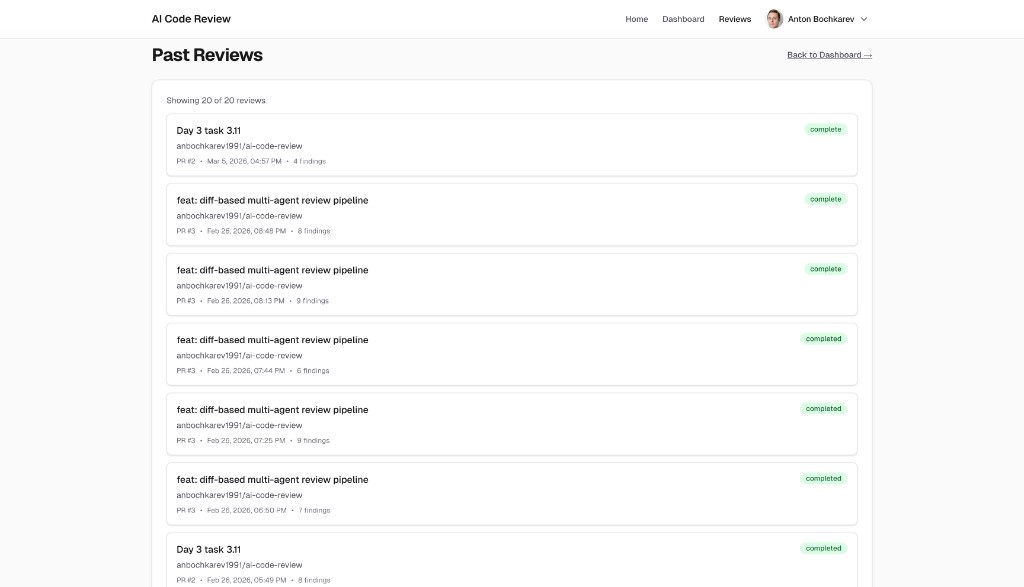
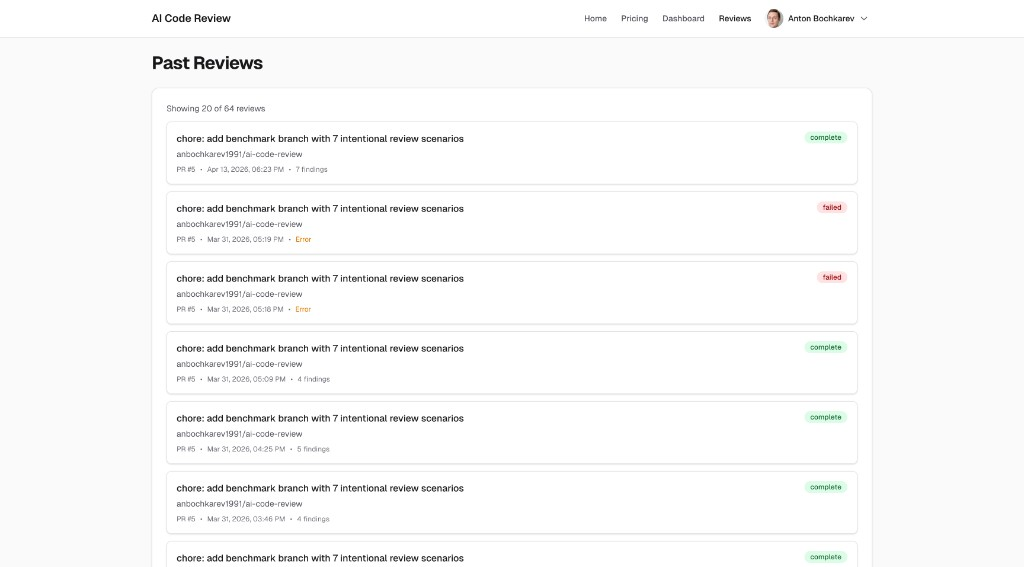
docs: update README with current screenshots and pipeline changes
Replace outdated review screenshots, add new capabilities (context
expansion, LLM deduplication, security severity overrides, issue
generation), fix merge rule description, update pipeline and
architecture diagrams, and refresh limitations section.

Made-with: Cursor

diff --git a/README.md b/README.md
@@ -12,7 +12,7 @@ An AI-powered code review tool that analyzes GitHub pull requests across four do
 
 AI Code Review Assistant is a full-stack application that connects to your GitHub repositories, fetches pull request diffs, and runs them through a multi-agent analysis pipeline. Each agent specializes in a different review domain. Findings are normalized, deduplicated, scored for risk, and presented as a structured review with a clear merge recommendation.
 
-The system is designed to work with **diffs only** — it analyzes changed code rather than entire files, keeping reviews focused and reducing noise.
+The system is designed to work **diff-first** — it prioritizes changed code while pulling in limited local context (enclosing functions, referenced declarations) to improve finding accuracy without sending entire files.
 
 ---
 
@@ -35,16 +35,20 @@ It is not a replacement for human review. It is a fast, systematic first pass th
 
 - **Diff-scoped analysis** — only changed code is analyzed; unchanged files are excluded.
 - **Four specialized agents** — Code Quality, Architecture, Performance, and Security run in parallel with independent timeout and retry logic.
+- **Git-backed context expansion** — agents receive not just diff hunks but enclosing functions and referenced declarations fetched from GitHub, improving finding accuracy without sending entire files.
 - **Deterministic risk scoring** — exponential risk model (0–100) based on severity-weighted findings.
-- **Merge recommendation** — structured decision (Safe to merge / Merge with caution / Merge blocked) derived from risk score and critical findings.
-- **Finding normalization** — confidence clamping, multi-agent consensus detection, false positive risk estimation, and severity coherence checks.
-- **AI Review Summary** — concise executive overview of main risks, themes, and recommendation, generated from final findings.
+- **Centralized merge decision** — a single pure function in the shared package determines the merge verdict from severity counts and risk score. Any critical or high finding blocks merge; risk score >= 60 or any medium findings triggers caution.
+- **Multi-layer finding normalization** — confidence clamping, diff boundary enforcement, cross-agent consolidation, severity calibration (impact/likelihood matrix, multi-agent boosts, overflow controls), and false positive risk estimation.
+- **LLM cross-file deduplication** — when 4+ findings exist, an LLM grouping step merges findings that share a root cause, consolidating agent metadata and consensus.
+- **Security severity overrides** — security findings receive policy-driven post-processing (e.g. open redirect in auth callback is escalated to critical) with confidence floors and downgrade guards.
+- **AI Review Summary** — concise executive overview with overall assessment, primary risk area, key concerns grouped by severity, and an AI-generated narrative recommendation.
 - **Systemic issue detection** — recurring patterns across findings are surfaced separately from code-level issues.
-- **Review telemetry** — per-agent latency, token counts, prompt sizes, and status tracked in every review.
+- **LLM-powered issue generation** — each finding has a "Generate issue" action that produces a structured issue draft (title, description, steps to reproduce, acceptance criteria) via a one-shot LLM call.
+- **Review telemetry** — per-agent latency, token counts, prompt sizes, status, and confidence tracked in every review.
 - **Cost estimation** — USD cost computed from token usage and model rates.
-- **Review integrity** — SHA-256 review hash and engine/agent version stamps for reproducibility.
+- **Review integrity** — SHA-256 review hash and engine/agent version stamps (v3.0.0) for reproducibility.
 - **Usage-based billing** — free tier (10 reviews/month) and Pro tier (200 reviews/month) via Stripe.
-- **Review history** — all past reviews are persisted and browsable.
+- **Review history** — all past reviews are persisted and browsable with completion and failure statuses.
 
 ---
 
@@ -68,28 +72,40 @@ Click **Run Code Review**. The backend fetches the PR diff from GitHub, parses i
 
 ### 3. Read the results
 
-The review result includes:
+The review result page has two main areas — a scrollable content column and a sticky **General Findings** sidebar.
 
-- **AI Review Summary** — overall assessment, key concerns (2–4 bullets), and a practical recommendation.
+**Content column:**
+
+- **AI Review Summary** — overall assessment, primary risk area (e.g. Security), key concerns grouped by severity (critical / high / medium), and an AI-generated narrative recommendation.
 - **PR metadata** — file count, additions/deletions, commit count, analysis scope.
+- **Systemic patterns** — recurring issues flagged separately with clickable details.
+- **Execution telemetry** — agent count, duration, average latency, tokens, estimated cost, engine version, and review hash.
+- **Individual findings** — each with severity badge, category, multi-agent confirmation indicator, affected locations, impact description, suggested fix, and diff context.
+
+**General Findings sidebar:**
+
+- **Merge recommendation** — actionable decision (Safe to merge / Merge with caution / Merge blocked) with a "Why blocked" or "Why cautioned" breakdown.
+- **Risk score** — 0 to 100 donut chart with risk level label (Low / Moderate / High / Critical).
+- **Risk by area** — weighted scores per domain (Security, Code quality, Performance, Architecture).
 - **Severity breakdown** — counts of critical, high, medium, and low findings.
-- **Risk score** — 0 to 100, with a risk level label (Low / Moderate / High / Critical).
-- **Merge recommendation** — actionable decision with explanation.
-- **Systemic patterns** — recurring issues flagged separately.
-- **Individual findings** — each with file, line, message, suggested fix, confidence, false positive risk, and diff context.
-- **Execution telemetry** — agent count, duration, tokens, estimated cost, engine version, and review hash.
+- **Multi-agent overlap** — count of findings independently confirmed by multiple agents.
+- **Summary** — condensed text overview of the review.
 
-![Review details](docs/screenshots/review-details.png)
+![Review details — AI summary and merge decision](docs/screenshots/review-details-summary.png)
 
-*A completed review showing risk score (80/100, High), merge blocked status, systemic pattern detection, and execution metadata. Below the summary, findings are listed with severity badges, file locations, and suggested fixes.*
+*AI Review Summary showing overall assessment, primary risk (Security), key concerns grouped by priority, and narrative recommendation. The sidebar shows the merge decision (Blocked from merge), risk score (70/100, Critical), and weighted risk breakdown by area.*
+
+![Review details — findings with multi-agent confirmation](docs/screenshots/review-details-findings.png)
+
+*Findings section with severity badges, multi-agent confirmed indicators, affected locations, impact descriptions, and suggested fixes. Systemic issues are surfaced above code-level findings. The sidebar remains visible with the merge decision and risk breakdown.*
 
 ### 4. Browse past reviews
 
-All reviews are persisted and accessible from the **Past Reviews** page, showing repo, PR number, timestamp, finding count, and status.
+All reviews are persisted and accessible from the **Reviews** page. Each entry shows PR title, repo, PR number, timestamp, finding count, and status (complete or failed).
 
 ![Past reviews](docs/screenshots/past-reviews.png)
 
-*Review history with completion status and finding counts. Each entry links to the full review detail.*
+*Review history showing completion and failure statuses. Failed reviews display an error label. Each entry links to the full review detail.*
 
 ---
 
@@ -104,6 +120,16 @@ Backend fetches PR diff via GitHub API
         ▼
 DiffParser filters and parses hunks
 (ignores lock files, binaries, node_modules, etc.)
+        │
+        ▼
+ContextBuilder
+(fetches full files from GitHub, extracts enclosing
+ functions and referenced declarations per hunk)
+        │
+        ▼
+AgentContextShaper
+(builds per-agent prompts with ~4,500-token budget;
+ security agent gets security-relevant context only)
         │
         ▼
 ┌───────────────────────────────────────────┐
@@ -123,9 +149,9 @@ FindingNormalizer
  consolidation, consensus detection, false positive risk)
         │
         ▼
-SeverityNormalizer
-(severity adjustments, multi-agent boosts,
- cap enforcement, root-cause merging)
+FindingDeduplicator
+(LLM groups findings sharing a root cause,
+ merges agent metadata and consensus)
         │
         ▼
 DeterministicAggregator
@@ -137,6 +163,11 @@ ResultFormatter
 (execution metadata, cost estimate, telemetry)
         │
         ▼
+SeverityNormalizer
+(impact/likelihood classification, multi-agent boosts,
+ security overrides, cap enforcement, overflow controls)
+        │
+        ▼
 AiSummaryGenerator
 (LLM synthesizes findings into executive summary)
         │
@@ -144,7 +175,7 @@ AiSummaryGenerator
 Persist to Supabase + return to frontend
 ```
 
-Each agent receives the parsed diff formatted as markdown with per-file sections. Agent output is validated against a shared Zod schema with up to 2 retries on malformed JSON. The orchestrator uses `Promise.allSettled` so a single agent failure never blocks the pipeline — partial results are still returned and clearly labeled.
+Each agent receives a diff-first prompt with limited local context (enclosing functions, referenced declarations) shaped per agent specialization. Agent output is validated against a shared Zod schema with up to 2 retries on malformed JSON. The orchestrator uses `Promise.allSettled` so a single agent failure never blocks the pipeline — partial results are still returned and clearly labeled.
 
 ---
 
@@ -154,9 +185,10 @@ Each agent receives the parsed diff formatted as markdown with per-file sections
 graph TB
     subgraph frontend [Frontend - Next.js]
         Landing[Landing Page]
+        Pricing[Pricing]
         Dashboard[Dashboard]
         ReviewUI[Review Results]
-        ReviewHistory[Past Reviews]
+        ReviewHistory[Reviews History]
     end
 
     subgraph backend [Backend - NestJS]
@@ -168,6 +200,8 @@ graph TB
             Controller[Reviews Controller]
             Service[Reviews Service]
             Orchestrator[Review Orchestrator]
+            CtxBuilder[Context Builder]
+            CtxShaper[Agent Context Shaper]
 
             subgraph agents [Agents]
                 CQ[Code Quality]
@@ -177,11 +211,13 @@ graph TB
             end
 
             Normalizer[Finding Normalizer]
-            SevNorm[Severity Normalizer]
+            Deduplicator[Finding Deduplicator]
             Aggregator[Deterministic Aggregator]
             RiskEng[Risk Engine]
             Formatter[Result Formatter]
-            AiSummary[AiSummaryGenerator]
+            SevNorm[Severity Normalizer]
+            AiSummary[AI Summary Generator]
+            IssueGen[Issue Generator]
         end
     end
 
@@ -197,15 +233,21 @@ graph TB
     Service --> GitHubMod
     GitHubMod --> GitHubAPI
     Service --> Orchestrator
-    Orchestrator --> agents
+    Orchestrator --> CtxBuilder
+    CtxBuilder --> GitHubAPI
+    CtxBuilder --> CtxShaper
+    CtxShaper --> agents
     agents --> OpenAI
     Orchestrator --> Normalizer
-    Normalizer --> SevNorm
-    SevNorm --> Aggregator
+    Normalizer --> Deduplicator
+    Deduplicator --> OpenAI
+    Deduplicator --> Aggregator
     Aggregator --> RiskEng
     Aggregator --> Formatter
-    Formatter --> AiSummary
+    Service --> SevNorm
+    SevNorm --> AiSummary
     AiSummary --> OpenAI
+    IssueGen --> OpenAI
     Controller --> BillingMod
     BillingMod --> Stripe
     AuthMod --> Supabase
@@ -216,7 +258,7 @@ graph TB
 
 - **Frontend** handles auth (Supabase SSR), navigation, and rendering. It has no business logic — it sends requests to the backend and displays results.
 - **Backend** owns the entire review pipeline, billing, and GitHub integration. Each NestJS module (Auth, GitHub, Billing, Reviews) is self-contained.
-- **Shared** package contains TypeScript types, Zod schemas, merge-decision logic, and model rate tables — used by both frontend and backend.
+- **Shared** package contains TypeScript types, Zod schemas, merge-decision logic, risk breakdown/summary helpers, and model rate tables — used by both frontend and backend.
 - **Agents** are isolated injectable services. Each receives parsed diff files and returns structured findings validated against a shared schema.
 - **Aggregation** is deterministic — no randomness in scoring, merge decisions, or normalization. Same diff + same agent outputs = same result.
 
@@ -224,21 +266,29 @@ graph TB
 
 ## Technical highlights
 
-- **Diff-only scope.** The `DiffParser` filters out non-code files (lock files, binaries, generated assets) and formats only changed hunks for agent consumption. This reduces token usage and keeps findings relevant.
+- **Diff-first with local context.** The `DiffParser` filters out non-code files (lock files, binaries, generated assets). The `ContextBuilder` then fetches full files from GitHub and extracts enclosing functions, referenced declarations, and called helpers per hunk. The `AgentContextShaper` builds per-agent prompts within a ~4,500-token budget, with the security agent receiving only security-relevant context.
 
 - **Resilient orchestration.** `Promise.allSettled` with per-agent timeouts (30s default) and single retry on transient errors. Non-retryable errors (401, 402, 429) fail fast. Partial results are surfaced rather than lost.
 
-- **Multi-layer normalization.** Findings pass through confidence clamping (0.3–0.95), diff boundary enforcement (outside-diff findings penalized), cross-agent consolidation, severity coherence, and uncertainty phrase detection before scoring.
+- **Multi-layer normalization.** Findings pass through confidence clamping (0.3–0.95), diff boundary enforcement (outside-diff findings penalized), cross-agent consolidation, severity coherence, and uncertainty phrase detection. A separate severity calibration pipeline applies an impact/likelihood matrix, multi-agent boosts, confidence caps, and overflow controls.
 
-- **Deterministic merge logic.** The merge decision is a pure function of severity counts and risk score — no LLM involved. Any critical finding blocks merge; 3+ high findings or risk score >= 60 triggers caution.
+- **LLM cross-file deduplication.** When 4+ findings exist, an LLM grouping call merges findings that share a root cause, consolidating agent metadata and multi-agent consensus. This reduces noise without losing signal.
 
-- **AI Review Summary.** After findings are aggregated and normalized, a single LLM call synthesizes them into a concise executive summary (overall assessment, key concerns, recommendation). Generation is non-blocking — if it fails, the pipeline completes and the block is omitted.
+- **Security severity overrides.** Security findings receive policy-driven post-processing. Open redirect patterns, unvalidated external URLs, and auth callback issues are escalated based on pattern matching, with confidence floors preventing false downgrades.
+
+- **Deterministic merge logic.** The merge decision is a single pure function in the shared package (`decideMerge`) — no LLM involved. Any critical or high finding blocks merge; risk score >= 60 or any medium findings triggers caution.
+
+- **AI Review Summary.** After findings are aggregated and normalized, a single LLM call synthesizes them into a concise executive summary (overall assessment, primary risk, key concerns grouped by severity, narrative recommendation). A factual severity prefix grounds the summary in actual finding counts. Generation is non-blocking — if it fails, the pipeline completes and the block is omitted.
+
+- **LLM issue generation.** Each finding can be converted into a structured issue draft (title, description, steps to reproduce, acceptance criteria) via a one-shot LLM call, replacing the previous placeholder action buttons.
 
 - **Zod-validated agent output.** Agent responses are parsed against a strict Zod schema with up to 2 retries, preventing malformed data from propagating through the pipeline.
 
 - **Cost transparency.** Token usage is tracked per agent and converted to USD estimates using per-model rate tables defined in the shared package.
 
-- **Review integrity.** Each review is stamped with a SHA-256 hash of the diff + engine/agent versions, enabling reproducibility verification.
+- **Review integrity.** Each review is stamped with a SHA-256 hash of the diff + engine/agent versions (v3.0.0), enabling reproducibility verification.
+
+- **Input validation and security hardening.** All external API responses (GitHub, Stripe, Supabase) are validated before nested access. Frontend validates Stripe checkout redirect URLs against an allowlist and sanitizes post-login redirect paths. Backend validates Stripe return URLs against `FRONTEND_URL`. See [docs/frontend-security.md](docs/frontend-security.md).
 
 ---
 
@@ -326,13 +376,15 @@ The frontend runs on `http://localhost:3000`, the backend on `http://localhost:3
 
 ### Database setup
 
-Run the Supabase migrations in order. The migration files are in `supabase/migrations/` and create the following tables: `profiles`, `github_connections`, `subscriptions`, `review_runs`, `usage`.
+Run the Supabase migrations in order. The migration files are in `supabase/migrations/` and create the following tables: `profiles`, `github_connections`, `subscriptions`, `review_runs`, `usage`, and an `increment_usage_review_count` RPC function for atomic usage tracking.
 
 ### Notes
 
 - Set `USE_MOCK_OPENAI_RESPONSES=true` in the backend `.env` to develop without burning API credits.
+- Set `PRO_EMULATE_EMAILS=user@example.com` to emulate a Pro subscription for specific emails during development.
 - The backend requires `rawBody: true` for Stripe webhook signature verification — this is already configured in `main.ts`.
 - GitHub OAuth redirect URI must match exactly between your GitHub app settings and `GITHUB_OAUTH_REDIRECT_URI`.
+- See [docs/frontend-security.md](docs/frontend-security.md) for details on redirect validation and checkout URL security.
 
 ---
 
@@ -363,9 +415,9 @@ Current limitations:
 
 - **No GitHub App integration.** The system uses OAuth personal access tokens, not a GitHub App installation. This means the user must manually trigger reviews from the dashboard rather than receiving them automatically on PR creation.
 - **No webhook-triggered reviews.** Reviews are user-initiated only. There is no automatic review on push or PR open.
-- **Finding actions are UI-only.** The "Mark as resolved", "Ignore", and "Create ticket" buttons on findings are present in the UI but do not persist state.
+- **Issue generation is copy-only.** The LLM-powered "Generate issue" action produces structured issue drafts, but they are copy-to-clipboard only — not posted directly to GitHub Issues.
 - **Single model.** The pipeline currently supports one OpenAI model per deployment. There is no per-agent model selection or model routing.
-- **Token budget is fixed.** Each agent receives a 3,500-token budget for diff content. Very large PRs are truncated.
+- **Token budget is fixed.** Each agent receives a ~4,500-token budget for diff content with local context. Very large PRs are truncated.
 - **No inline PR comments.** Review results are shown in the app UI, not posted as GitHub PR comments.
 
 ---
@@ -374,9 +426,9 @@ Current limitations:
 
 - GitHub App integration for automatic reviews on PR events.
 - Post findings as inline comments on GitHub PRs.
+- Post generated issues directly to GitHub Issues (currently copy-to-clipboard only).
 - Per-agent model selection and configurable token budgets.
 - Support for additional LLM providers (Anthropic, open-source models).
-- Persistent finding state (resolved, ignored, ticket created).
 - Team-level dashboards and aggregated review metrics.
 - Configurable review policies (e.g., skip low-severity findings, focus on specific categories).
 - CI/CD integration (GitHub Actions, GitLab CI).
